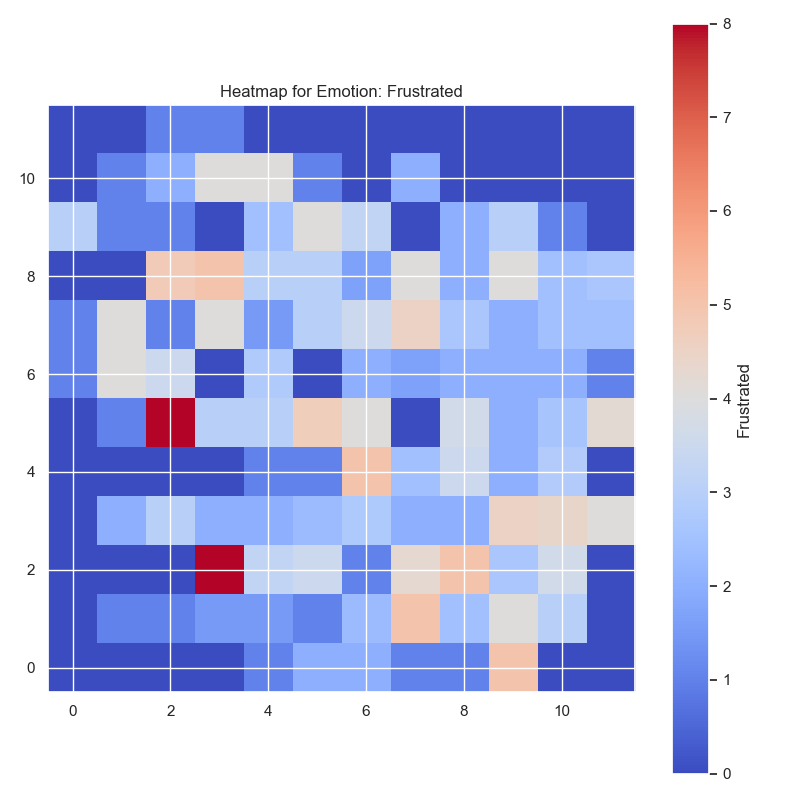
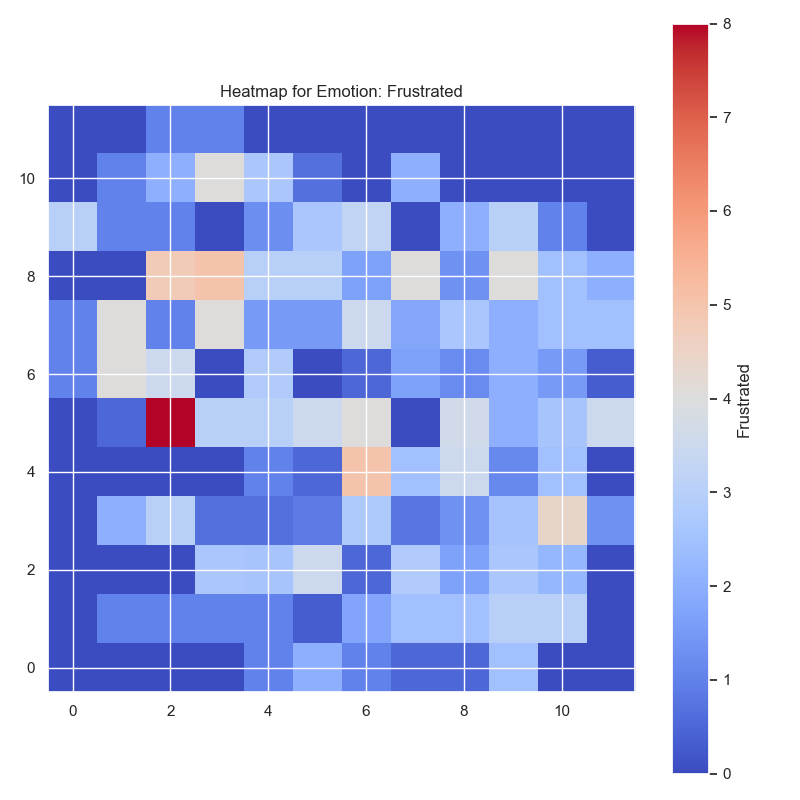
added missing plots, fixed scale value filtering

diff --git a/src/case2/subspace_methods/som.py b/src/case2/subspace_methods/som.py
@@ -112,17 +112,16 @@ def plot_u_matrix(som: MiniSom):
     plt.savefig(FIG_DIR / "som_u_matrix.png")
     plt.close()
 
-def plot_label_heatmaps(som: MiniSom, X: np.ndarray, y: pd.DataFrame, emotion: str):
+def plot_emotion_heatmaps(som: MiniSom, X: np.ndarray, y: pd.DataFrame, emotion: str):
     """
-    Plot a heatmap of the average label values for each neuron in the SOM.
-    Each neuron is represented by a grid cell, and the color intensity indicates the average value of the label for that neuron.
+    Plot a heatmap of the average emotion label values for each neuron in the SOM.
     """
     assert emotion in y.columns, f"{emotion} not found in label columns."
 
     label_map = defaultdict(list)
     for i, x in enumerate(X):
         val = int(y.iloc[i][emotion])
-        if val in [-1, 0]:  # skip invalid labels
+        if val in [-1]:  # skip invalid labels
             continue
         winner = som.winner(x)
         label_map[winner].append(val)
@@ -144,7 +143,7 @@ def plot_label_heatmaps(som: MiniSom, X: np.ndarray, y: pd.DataFrame, emotion: s
     plt.savefig(FIG_DIR / "label_heatmaps" /f"som_label_heatmap_{emotion}.png")
     plt.close()
 
-def plot_emotion_scatter(som: MiniSom, X: np.ndarray, y: pd.Series, emotion: str):
+def plot_label_scatter(som: MiniSom, X: np.ndarray, y: pd.DataFrame, label: str):
     """
     Plot emotion values on SOM as scattered text at BMU locations.
     Each text is colored based on the emotion value.
@@ -153,8 +152,8 @@ def plot_emotion_scatter(som: MiniSom, X: np.ndarray, y: pd.Series, emotion: str
     plt.figure(figsize=(10, 10))
 
     # Filter out invalid emotion values
-    y = y.astype(float)  # Optional: ensure consistency
-    mask = ~((y == 0.0) | (y == -1.0))
+    y = y.astype(int)  # Optional: ensure consistency
+    mask = ~((y == -1))
     X_filtered = X[mask.values]
     y_filtered = y[mask]
 
@@ -163,18 +162,19 @@ def plot_emotion_scatter(som: MiniSom, X: np.ndarray, y: pd.Series, emotion: str
     cmap = get_cmap("tab10" if val_max <= 10 else "tab20")
 
     # Track added labels to prevent duplicate legends
-    added_labels = set()
+    added_label_values = set()
 
     for x_vec, val in zip(X_filtered, y_filtered):
         bmu = som.winner(x_vec)
         jitter_x = bmu[0] + 0.5 + 0.6 * np.random.rand() - 0.3
         jitter_y = bmu[1] + 0.5 + 0.6 * np.random.rand() - 0.3
         color = cmap((val - val_min) / (val_max - val_min))
-        label = str(val) if val not in added_labels else None
-        plt.plot(jitter_x, jitter_y, 'o', color=color, alpha=0.7, label=label)
-        added_labels.add(val)
+        label_value = str(val) if val not in added_label_values else None
+        plt.plot(jitter_x, jitter_y, 'o', color=color, alpha=0.7, label=label_value)
+        added_label_values.add(val)
 
-    plt.title(f"SOM Emotion Scatter: {emotion}")
+    print("Plotting label scatter for:", label)
+    plt.title(f"SOM Label Scatter: {label}")
     plt.axis([0, som.get_weights().shape[0], 0, som.get_weights().shape[1]])
     plt.gca().invert_yaxis()
 
@@ -182,10 +182,10 @@ def plot_emotion_scatter(som: MiniSom, X: np.ndarray, y: pd.Series, emotion: str
     handles, labels = plt.gca().get_legend_handles_labels()
     label_handle_pairs = sorted(zip(labels, handles), key=lambda x: float(x[0]))
     sorted_labels, sorted_handles = zip(*label_handle_pairs)
-    plt.legend(sorted_handles, sorted_labels, title="Emotion Scale")
+    plt.legend(sorted_handles, sorted_labels, title="Label values")
 
     plt.tight_layout()
-    plt.savefig(FIG_DIR / "label_scatter" / f"som_label_scatter_{emotion}.png")
+    plt.savefig(FIG_DIR / "label_scatter" / f"som_label_scatter_{label}.png")
     plt.close()
 
 def plot_bmu_scatter_by_phase(som: MiniSom, X_df: pd.DataFrame, y_df: pd.DataFrame, df: pd.DataFrame):
@@ -199,7 +199,6 @@ def plot_bmu_scatter_by_phase(som: MiniSom, X_df: pd.DataFrame, y_df: pd.DataFra
     phase_colors = dict(zip(phase_labels, palette))
 
     plt.figure(figsize=(10, 10))
-    plotted_labels = set()
 
     for phase in phase_labels:
         color = phase_colors[phase]
@@ -318,13 +317,15 @@ def som_pipeline(df: pd.DataFrame, X_df: pd.DataFrame, y_df:pd.DataFrame):
 
     # Visualize label heatmaps and scatter maps for each emotion label
     emotions = [
-        'Frustrated', 'alert', 'ashamed', 'inspired', 'nervous',
-        'attentive', 'afraid', 'active', 'determined'
+        'Frustrated','upset','hostile','alert','ashamed',
+        'inspired', 'nervous','attentive','afraid','active','determined'
     ]
     for emotion in emotions:
         if emotion in y_processed.columns:
-            plot_label_heatmaps(som, X_scaled.to_numpy(), y_processed, emotion)
-            plot_emotion_scatter(som, X_scaled.to_numpy(), y_processed[emotion], emotion)
+            plot_emotion_heatmaps(som, X_scaled.to_numpy(), y_processed, emotion)
+    
+    for label in y_processed.columns:
+        plot_label_scatter(som, X_scaled.to_numpy(), y_processed[label], label)
 
     # Phase scatter: Where do phases land on the SOM?
     plot_bmu_scatter_by_phase(som, X_df, y_df, df)
